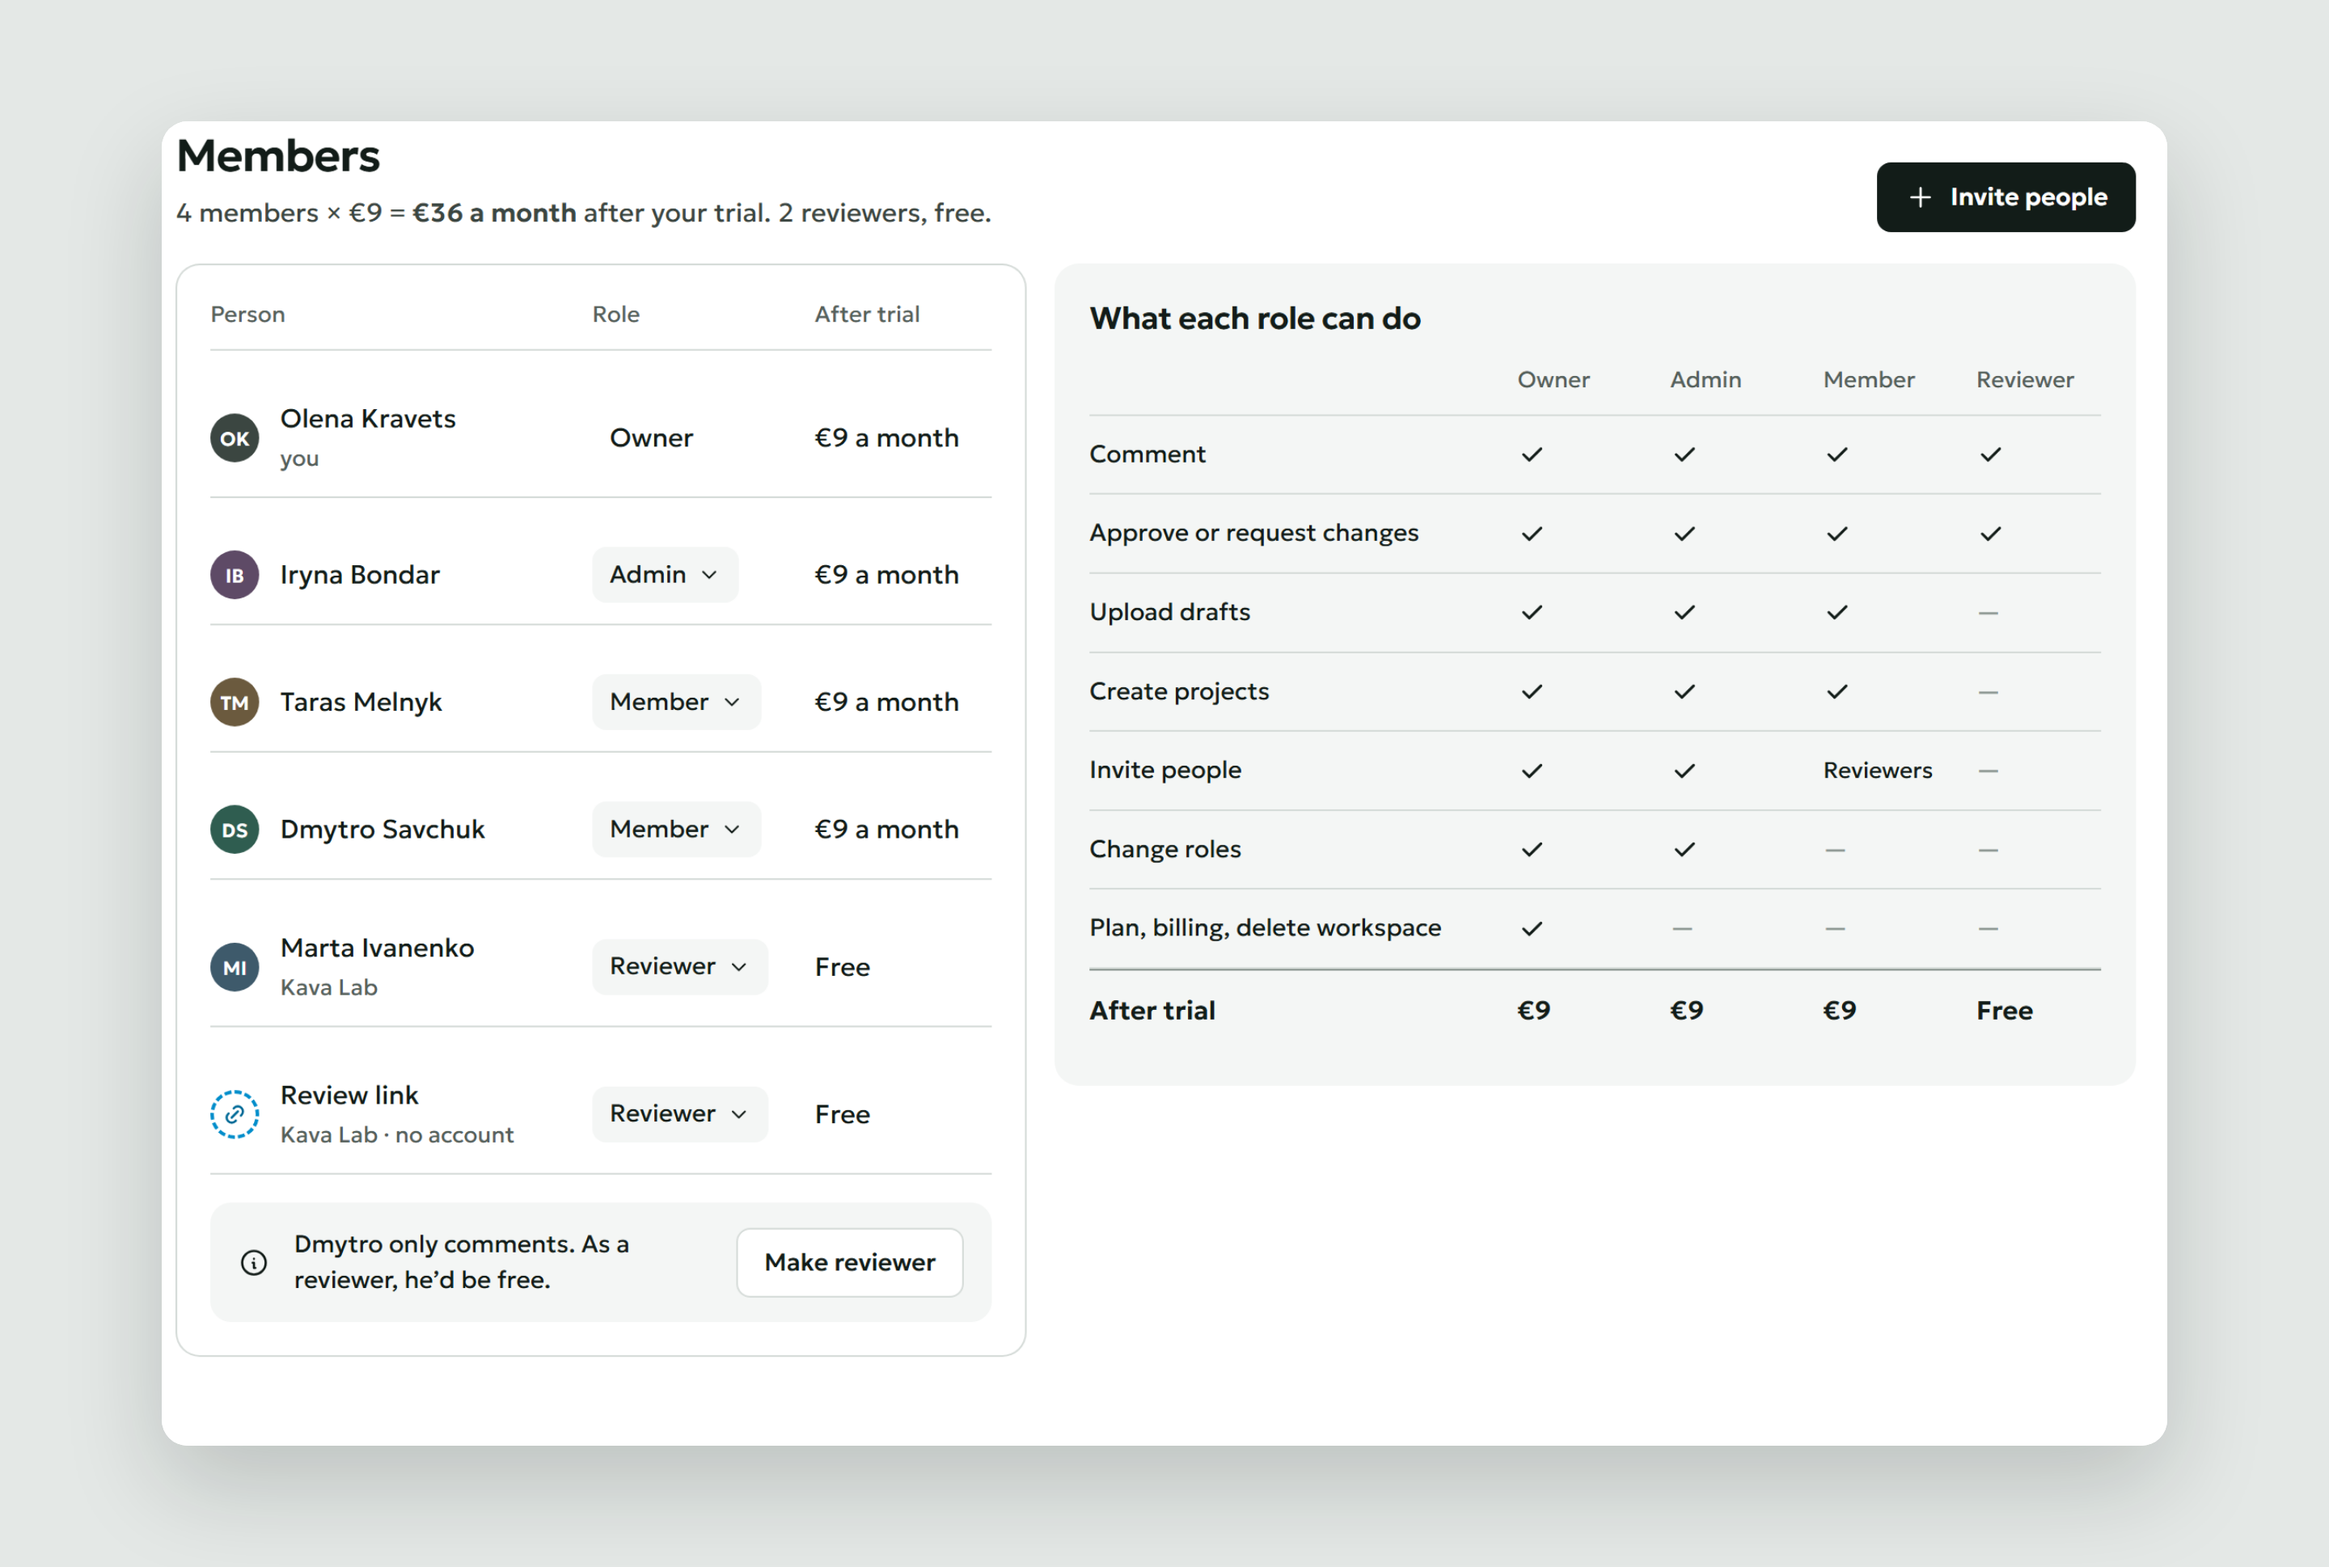
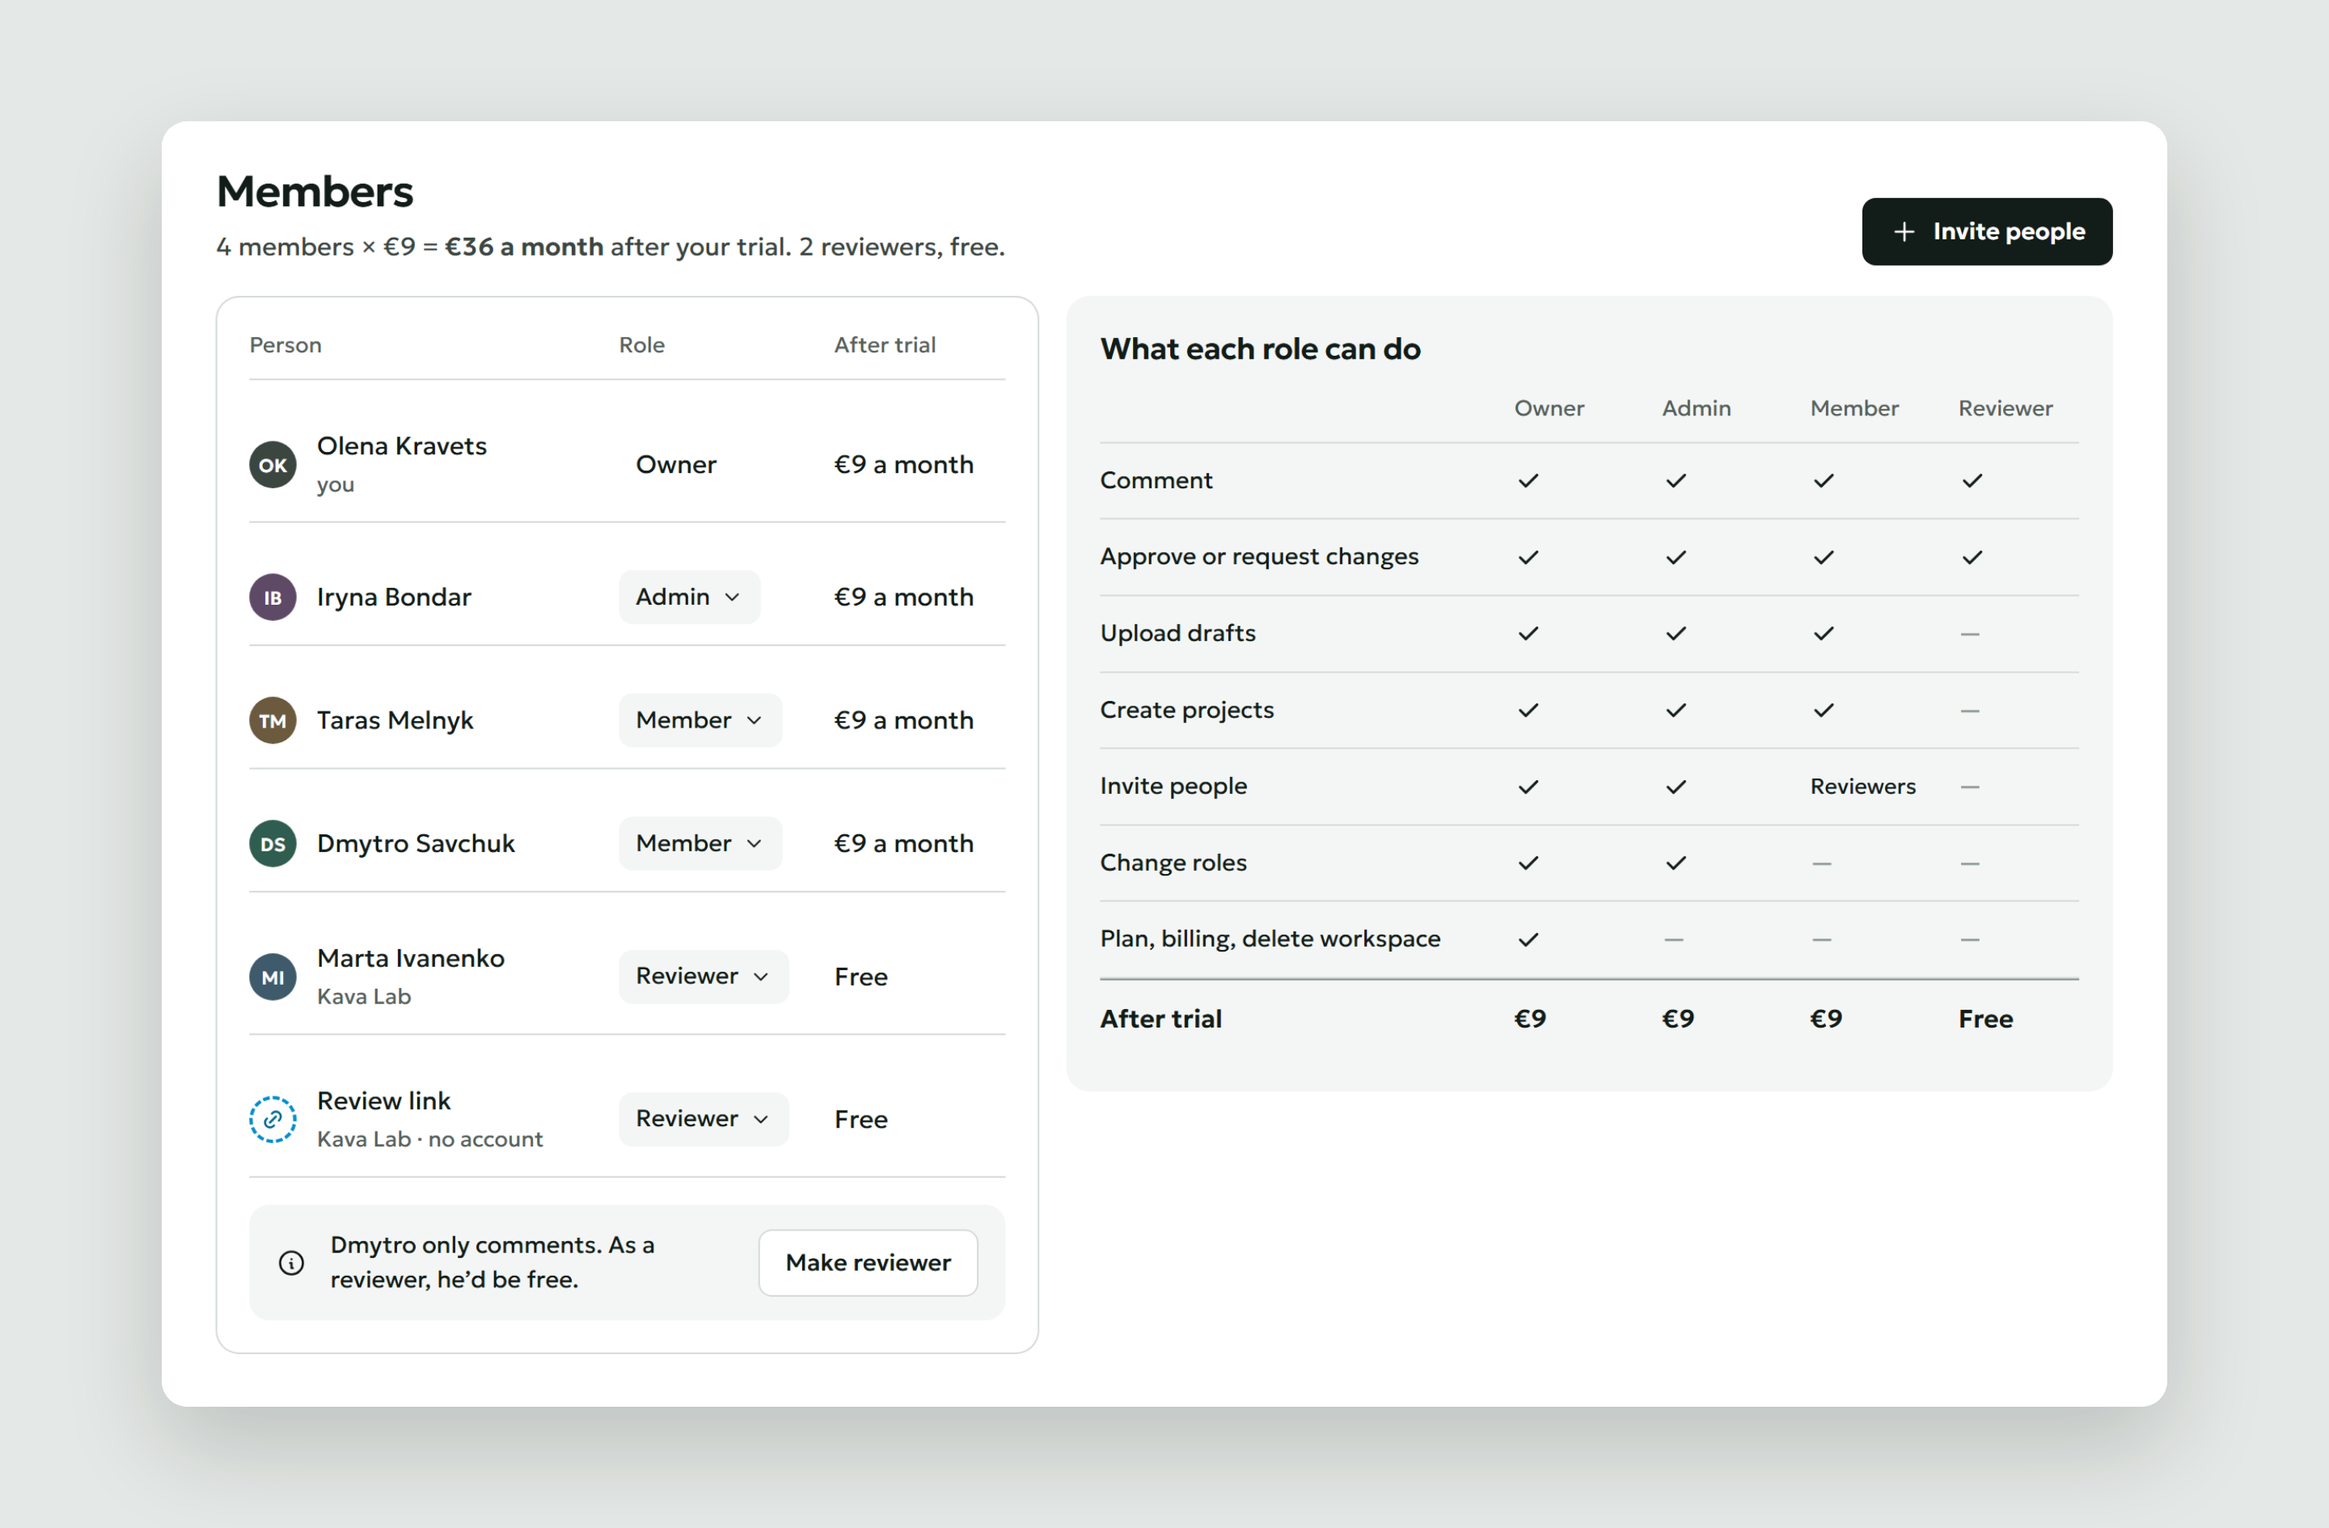
Zgoda: even margins around cropped screens, centred arrows in the results
Cropped screens (members, plan, wizard) now keep the screen's own
32px inset around their content; cropped panels get a clean white
margin instead of slices of neighbouring UI. In the results table
the "before" value is right-aligned so the arrow sits midway.

diff --git a/zgoda-team-onboarding-billing.html b/zgoda-team-onboarding-billing.html
@@ -88,10 +88,10 @@
 <div class="media reveal"><figure class="fig"><img src="img/zgoda-team-onboarding-billing/10-project.webp" alt="Project with four drafts: Approved, In review, Changes requested and Draft, each with the author and reviewer avatars or an empty seat, and an activity list below" width="2048" height="1316" loading="lazy" decoding="async"><figcaption>A project where every draft has a decider</figcaption></figure></div>
 <h2 class="reveal">Roles that say what they cost</h2>
 <p class="reveal">Owner, Admin, Member and Reviewer, each with what it can do and its price on one page. The header adds up the bill. If a member only comments, the page suggests making them a reviewer, which is free.</p>
-<div class="media reveal"><figure class="fig"><img src="img/zgoda-team-onboarding-billing/11-members.webp" alt="Members page: four members at €9 a month and two free reviewers, a hint that Dmytro only comments and would be free as a reviewer, and a matrix of what Owner, Admin, Member and Reviewer can do" width="2048" height="1378" loading="lazy" decoding="async"><figcaption>What each role can do, and what it costs</figcaption></figure></div>
+<div class="media reveal"><figure class="fig"><img src="img/zgoda-team-onboarding-billing/11-members.webp" alt="Members page: four members at €9 a month and two free reviewers, a hint that Dmytro only comments and would be free as a reviewer, and a matrix of what Owner, Admin, Member and Reviewer can do" width="2048" height="1344" loading="lazy" decoding="async"><figcaption>What each role can do, and what it costs</figcaption></figure></div>
 <h2 class="reveal">A trial that ends without a trap</h2>
 <p class="reveal">The plan page names the date, what happens if you do nothing, and the bill for this team. Day 11&nbsp;brings a reminder email. After 14&nbsp;days the team moves to Free: extra projects become read-only, nothing is deleted. Monthly is picked by default; yearly shows its saving in euros.</p>
-<div class="media reveal"><figure class="fig"><img src="img/zgoda-team-onboarding-billing/12-plan.webp" alt="Plan and billing during the trial: 9 days left, a timeline from 30 Oct to the reminder on 9 Nov and Free on 13 Nov, monthly picked, and plan cards with this team’s bill, €36 a month on Team" width="2048" height="1317" loading="lazy" decoding="async"><figcaption>The date, the default, and this team’s bill</figcaption></figure></div>
+<div class="media reveal"><figure class="fig"><img src="img/zgoda-team-onboarding-billing/12-plan.webp" alt="Plan and billing during the trial: 9 days left, a timeline from 30 Oct to the reminder on 9 Nov and Free on 13 Nov, monthly picked, and plan cards with this team’s bill, €36 a month on Team" width="2048" height="1343" loading="lazy" decoding="async"><figcaption>The date, the default, and this team’s bill</figcaption></figure></div>
 <h2 class="reveal">States and edge cases</h2>
 <p class="reveal">Each empty state says what will appear there and offers the first action. The Free limit offers archiving before upgrading. A reviewer who tries to upload is told why and can ask to become a member.</p>
 <div class="media reveal"><figure class="fig"><img src="img/zgoda-team-onboarding-billing/13-states.webp" alt="States sheet: empty projects, nothing to review, no approved drafts, the Free limit of 3 projects, a reviewer who can’t upload, and an expired review link, each with a next step" width="2048" height="1316" loading="lazy" decoding="async"><figcaption>Empty states and dead ends, each with a next step</figcaption></figure></div>
